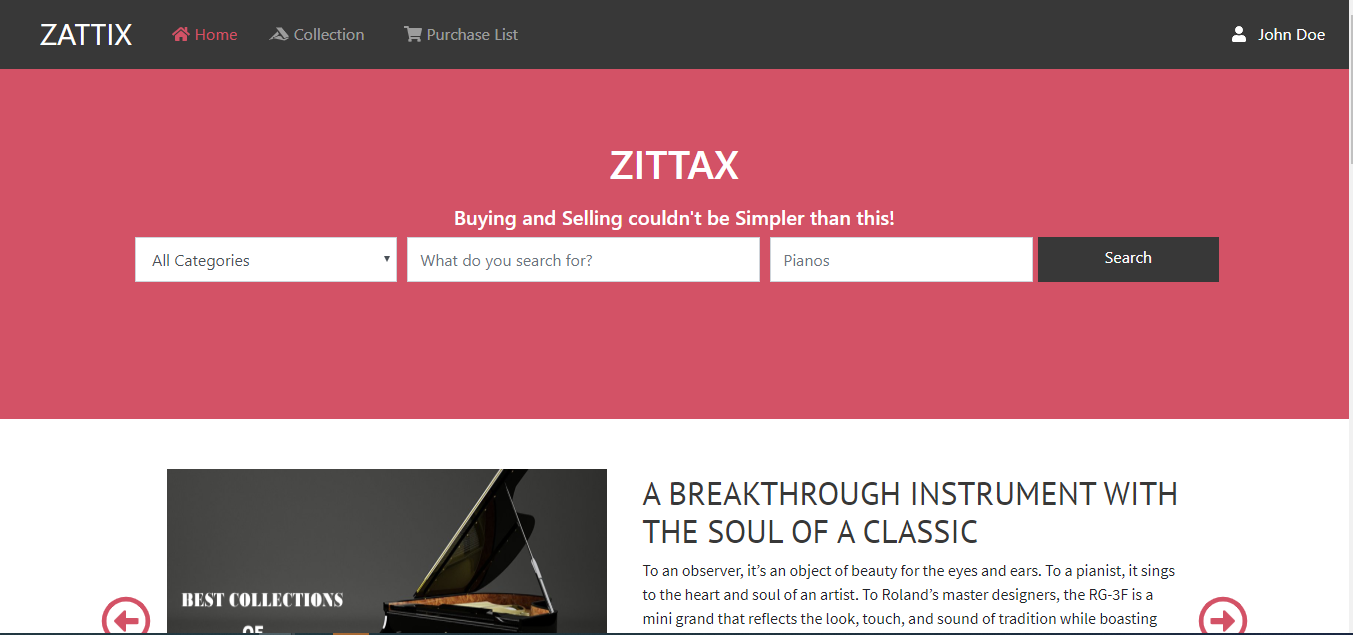
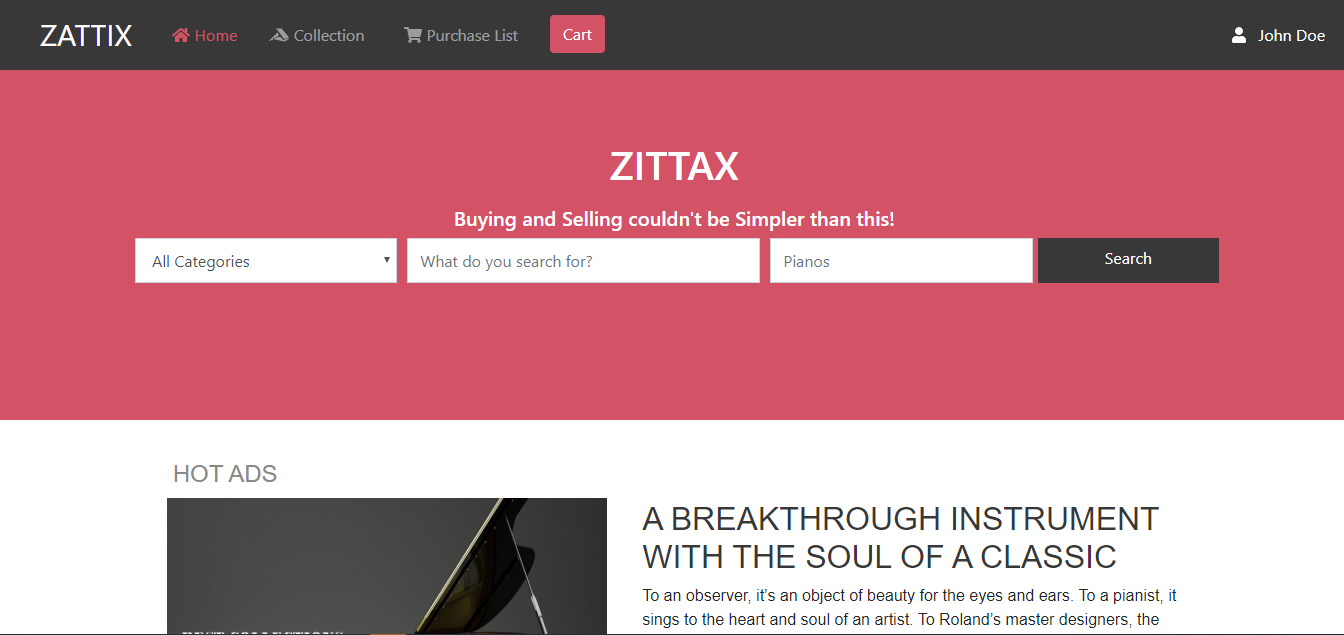
Update the Readme.md file with the screenshot images

diff --git a/search-page.html b/search-page.html
@@ -13,8 +13,8 @@
 <body>
 
     <header>
-        <nav class="navbar navbar-expand-md navbar-dark bg-dark">
-            <a class="navbar-brand px-lg-3" href="index.html">ZATTIX</a>
+        <nav class="navbar navbar-expand-md navbar-dark pt-lg-2 pb-2">
+            <a class="navbar-brand pl-lg-4 pr-lg-3" href="index.html">ZATTIX</a>
             <button class="navbar-toggler" type="button" data-toggle="collapse" data-target="#navbarSupportedContent" aria-controls="navbarSupportedContent" aria-expanded="false" aria-label="Toggle navigation">
                 <span class="navbar-toggler-icon"></span>
             </button>
@@ -28,23 +28,25 @@
                         </a>
                     </li>
                     <li class="nav-item">
-                        <a class="nav-link mr-lg-3" href="#">
+                        <a class="nav-link mr-lg-4" href="#">
                             <i class="fab fa-accusoft"></i> Collection
                         </a>
                     </li>
                     <li class="nav-item">
-                        <a class="nav-link mr-lg-3" href="#">
+                        <a class="nav-link mr-lg-4" href="#">
                             <i class="fas fa-shopping-cart"></i> Purchase List
                         </a>
                     </li>
                     <li class="nav-item">
-                        <button class="btn btn-ad mr-lg-4 my-2 my-sm-0" type="submit"> Cart </button>
+                        <button class="btn btn-ad mr-lg-5 my-2 my-sm-0" type="submit"> Cart </button>
                     </li>
                 </ul>
 
                 <form class="form-inline my-2 my-lg-0">
                     <div class="my-2 my-sm-0">
-                        <span class="mr-sm-2 "><i class="fas fa-user"></i> John Doe</span>
+                        <span class="mr-sm-2">
+                            <span class="pr-2"><i class="fas fa-user"></i></span> John Doe
+                        </span>
                     </div>
                 </form>
             </div>

diff --git a/index.html b/index.html
@@ -12,7 +12,7 @@
 <body>
     <header>
         <nav class="navbar navbar-expand-md navbar-dark pt-lg-2 pb-2">
-            <a class="navbar-brand pl-lg-4 pr-lg-3" href="index.html">CRYSTALS</a>
+            <a class="navbar-brand pl-lg-4 pr-lg-3" href="index.html">ZATTIX</a>
             <button class="navbar-toggler" type="button" data-toggle="collapse" data-target="#navbarSupportedContent" aria-controls="navbarSupportedContent" aria-expanded="false" aria-label="Toggle navigation">
                 <span class="navbar-toggler-icon"></span>
             </button>
